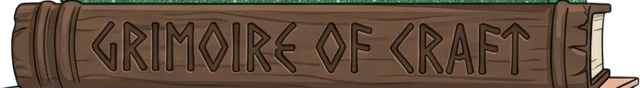
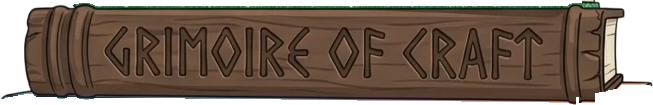
Books in the stack are cut along their drawn outlines, not straight lines

diff --git a/js/scene.js b/js/scene.js
@@ -5,9 +5,10 @@ const unreadLetters=()=>S.letters.filter(x=>!x).length+Object.values(S.mail||{})
 function renderBadge(){const n=unreadLetters(),bd=$('#booksBadge');bd.hidden=!n;bd.textContent=n;$('#pcBtn').setAttribute('aria-label',n?`Computer: email, ${n} unread`:'Computer: email')}
 /* ---------- the shop scene: every counter object is a button ---------- */
 
-const STACK=[['Recipe Book','book-recipe-book',104,0,480],['Book of Making','book-book-of-making',65,85,543],['Grimoire of Craft','book-grimoire-of-craft',19,160,640],
-  ['Almanac of Sky & Seasons','book-almanac-of-sky-seasons',0,248,659],['Tarot Companion','book-tarot-companion',38,338,602],['Gentle Bestiary','book-gentle-bestiary',20,405,624],
-  ['Crystal Almanac','book-crystal-almanac',19,462,637],['Herbiary','book-herbiary',32,540,610]];
+/* The book stack: each book cut from the stack picture along its drawn outline (659x672): left, top, width in that frame. */
+const STACK=[['Recipe Book','book-recipe-book',78,0,508],['Book of Making','book-book-of-making',35,75,595],['Grimoire of Craft','book-grimoire-of-craft',6,155,653],
+  ['Almanac of Sky & Seasons','book-almanac-of-sky-seasons',0,235,659],['Tarot Companion','book-tarot-companion',6,320,616],['Gentle Bestiary','book-gentle-bestiary',20,380,629],
+  ['Crystal Almanac','book-crystal-almanac',19,433,637],['Herbiary','book-herbiary',19,494,631]];
 function buildScene(){
   document.querySelectorAll('#scene img[data-img]').forEach(i=>i.src=ASSETS.objects[i.dataset.img]);
   $('#bookStack').innerHTML=STACK.map(([b,img,x,y,w])=>`<button data-openbook="${esc(b)}" aria-label="Open the ${esc(b)}" style="left:${x/659*100}%;top:${y/672*100}%;width:${w/659*100}%"><img src="${ASSETS.objects[img]}" alt=""></button>`).join('');
